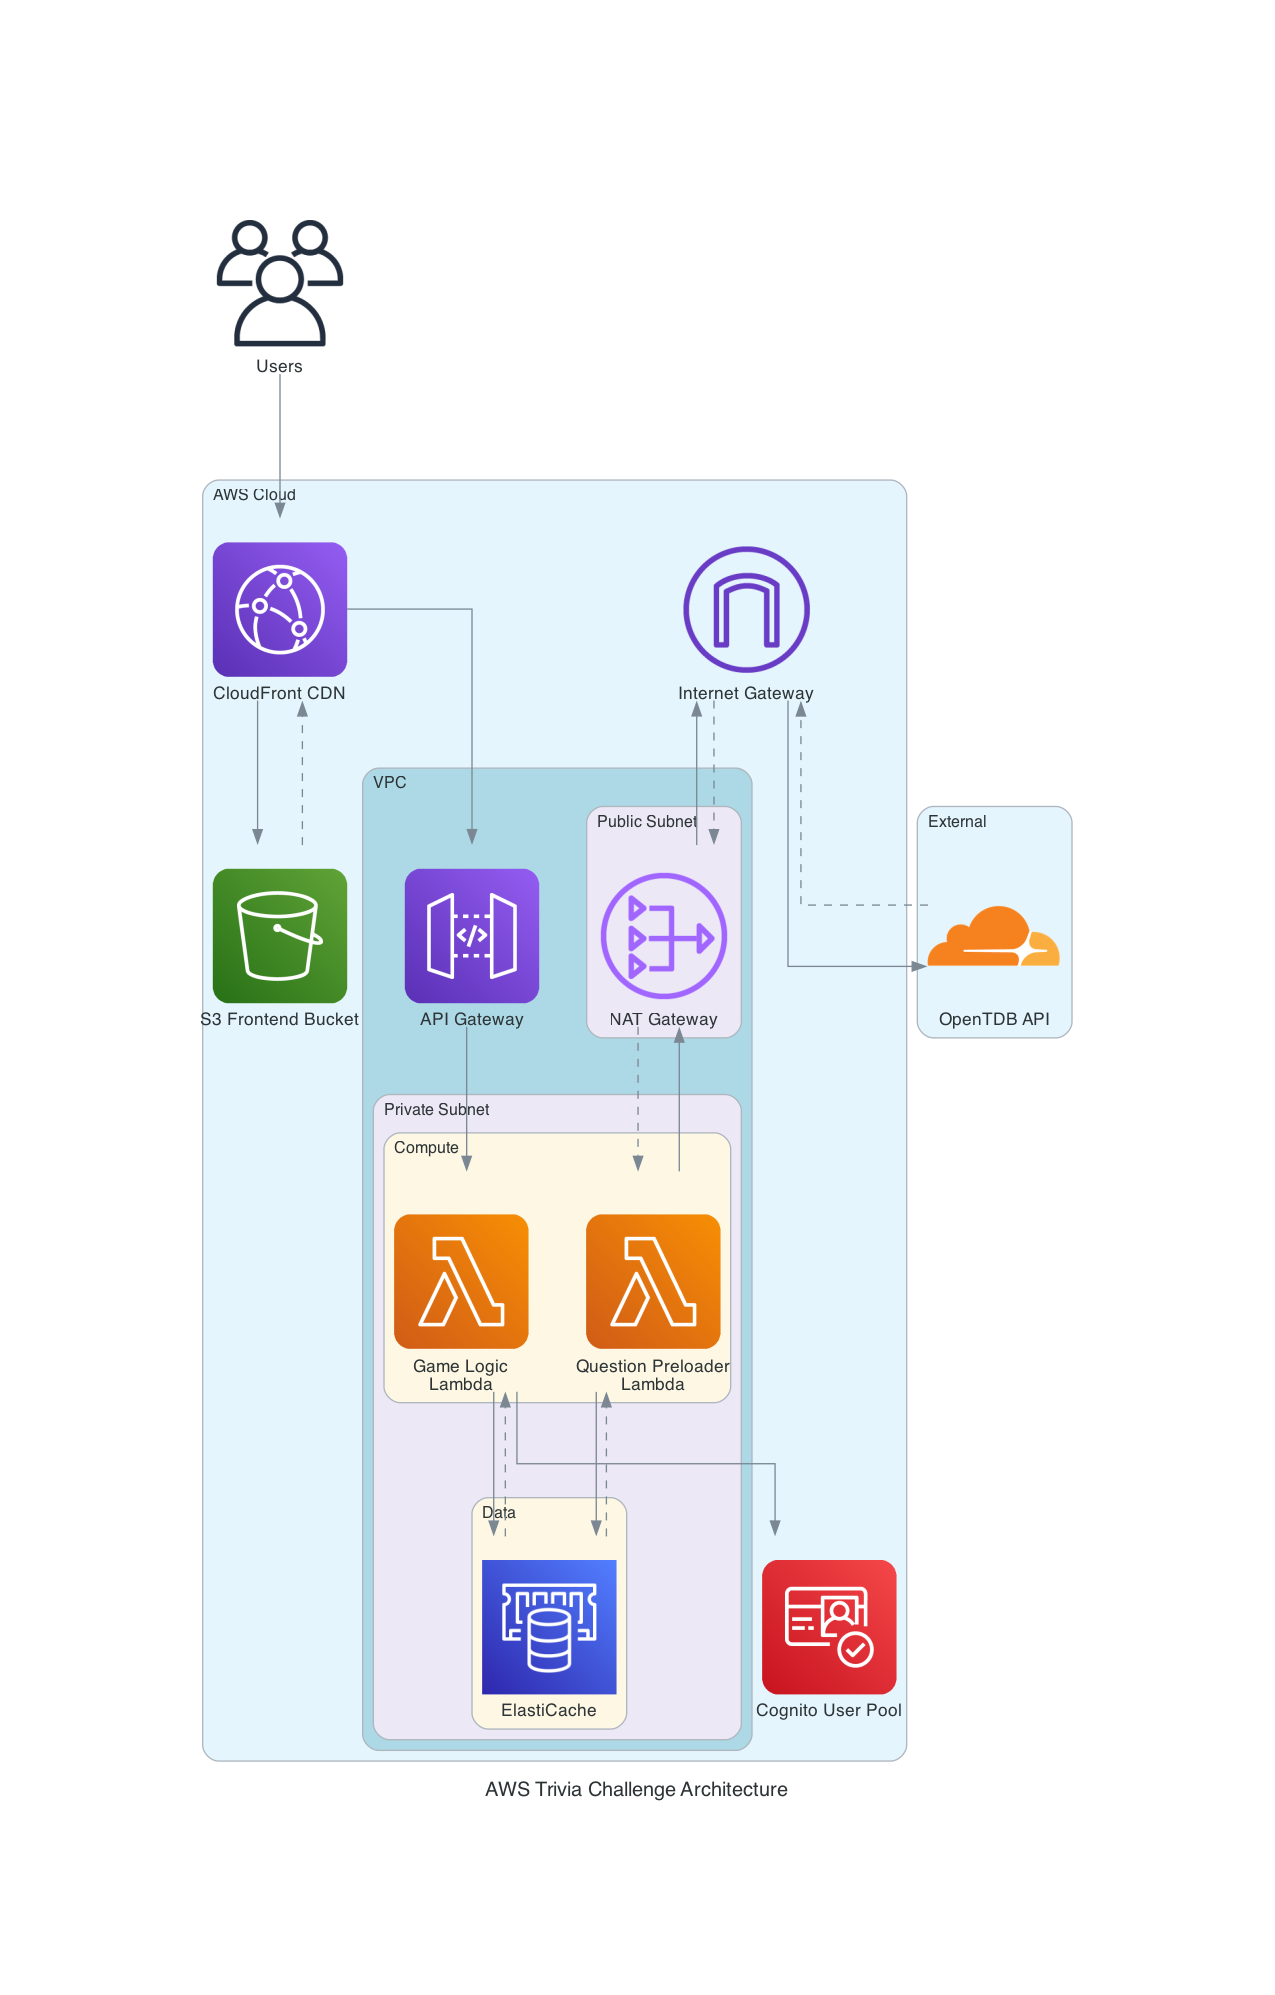
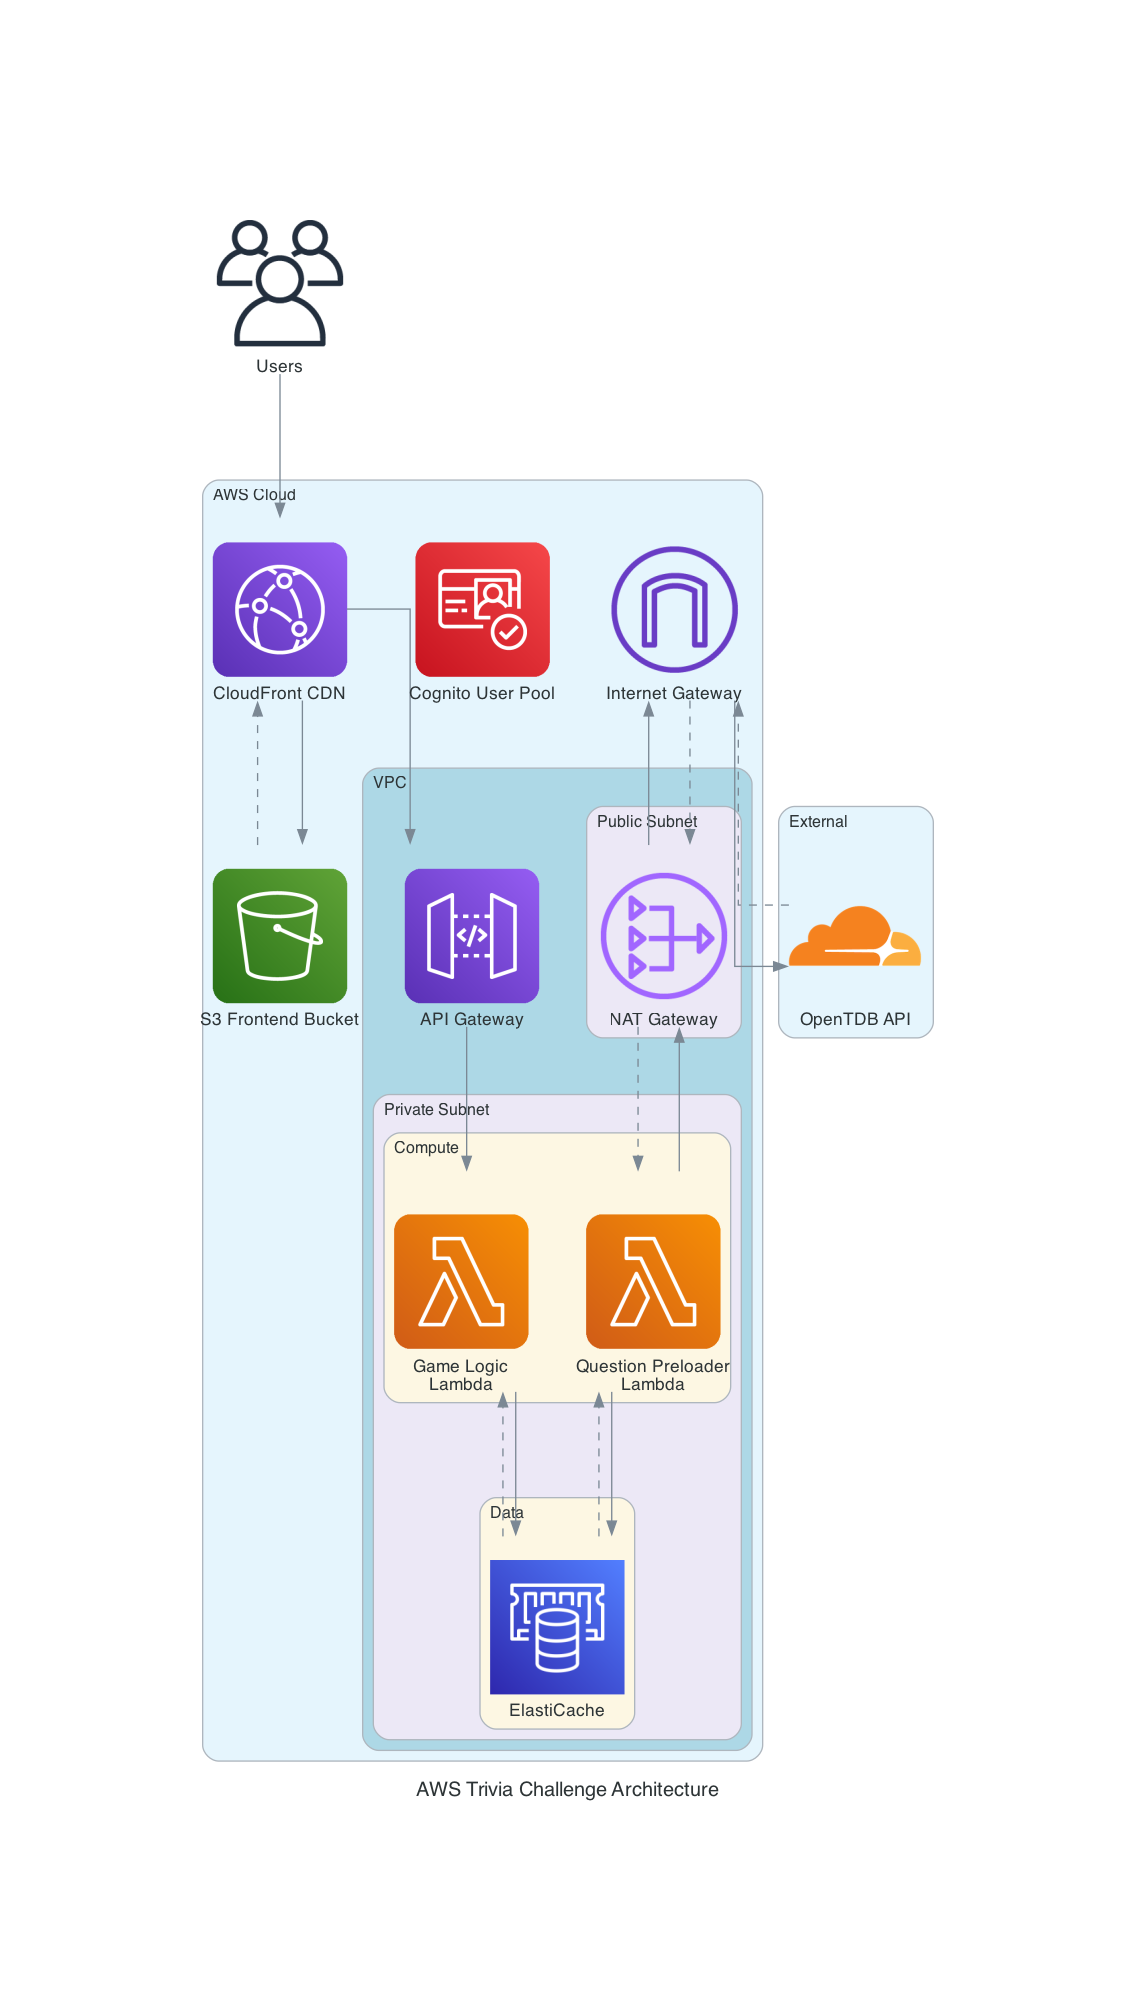
Remove incorrect direct connection between Cognito and Lambda - authentication handled via JWT tokens

Changed region(s): [[0.154, 0.0932, 0.8627, 0.9013]]

diff --git a/architecture/architecture_diagram.py b/architecture/architecture_diagram.py
@@ -61,9 +61,6 @@ with Diagram("AWS Trivia Challenge Architecture", show=False, direction="TB", gr
     # Lambda invocation from API Gateway
     api_gw >> lambda_main
     
-    # Authentication flow
-    lambda_main >> cognito
-    
     # Bidirectional cache operations
     lambda_main >> elasticache
     elasticache >> Edge(style="dashed") >> lambda_main
